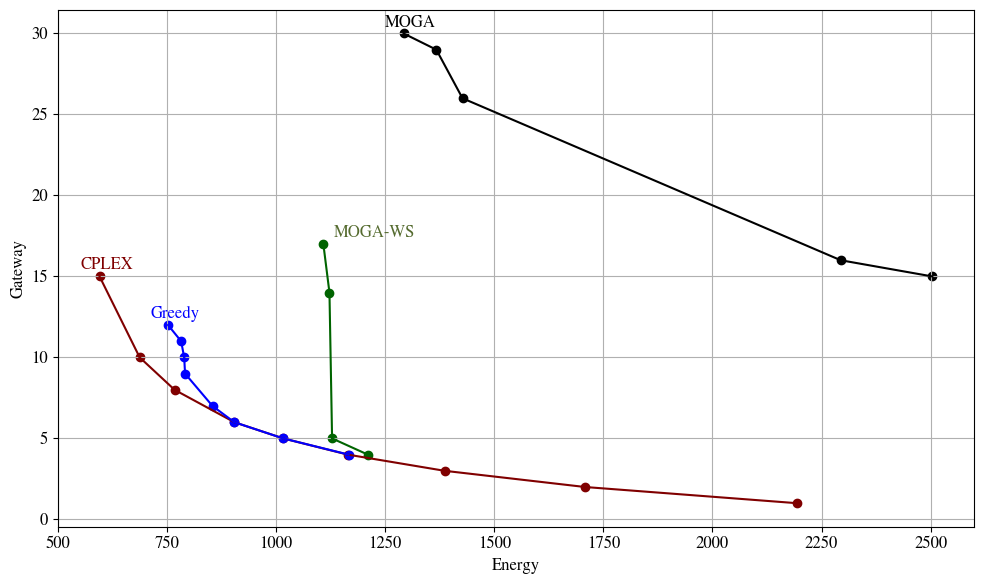
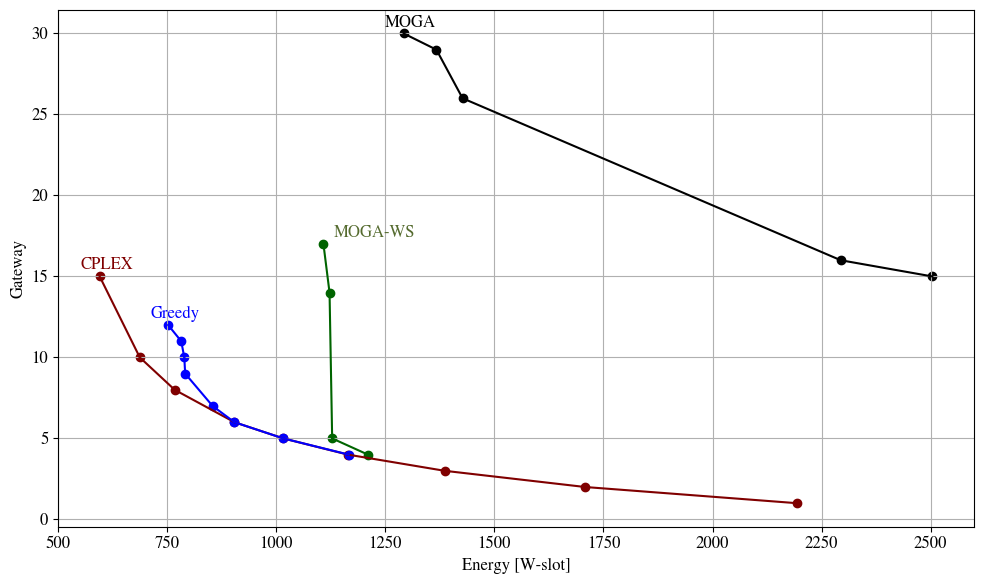
Crossover method selection

diff --git a/bin/src/ga.cpp b/bin/src/ga.cpp
@@ -26,6 +26,7 @@ int main(int argc, char **argv) {
     config->maxGenerations = 50;
     config->mutationRate = 0.05;
     config->crossoverRate = 0.8; 
+    config->crossoverMethod = CROSS_METHOD::SINGLE_POINT;
     config->elitismRate = 0.2;
     config->timeout = 360;
     config->stagnationWindow = 0.3;
@@ -34,54 +35,8 @@ int main(int argc, char **argv) {
 
     OUTPUTFORMAT outputFormat = OUTPUTFORMAT::TXT;
 
-    // Program arguments (h, f, t, i, a, b, g, m, c, e, w, o, p, q, x)
+
     for(int i = 0; i < argc; i++) {    
-        if(strcmp(argv[i], "-h") == 0 || strcmp(argv[i], "--help") == 0 || argc == 1)
-            printHelp(MANUAL);
-        if(strcmp(argv[i], "-f") == 0 || strcmp(argv[i], "--file") == 0) {
-            if(i+1 < argc)
-                l = new Instance(argv[i + 1]);
-            else{
-                printHelp(MANUAL);
-                std::cout << std::endl << "Error in argument -f (--file)" << std::endl;
-            }
-        }
-        if(strcmp(argv[i], "-p") == 0 || strcmp(argv[i], "--pop") == 0) {
-            // Read precomputed population
-            warmStart = true;
-        }
-        if(strcmp(argv[i], "-t") == 0 || strcmp(argv[i], "--timeout") == 0) {
-            if(i+1 < argc) 
-                config->timeout = atoi(argv[i+1]);
-            else{
-                printHelp(MANUAL);
-                std::cout << std::endl << "Error in argument -t (--timeout)" << std::endl;
-            }
-        }
-        if(strcmp(argv[i], "-i") == 0 || strcmp(argv[i], "--iters") == 0) {
-            if(i+1 < argc) 
-                config->maxGenerations = atoi(argv[i+1]);
-            else{
-                printHelp(MANUAL);
-                std::cout << std::endl << "Error in argument -i (--iters)" << std::endl;
-            }
-        }
-        if(strcmp(argv[i], "-s") == 0 || strcmp(argv[i], "--stag") == 0) {
-            if(i+1 < argc) 
-                config->stagnationWindow = atoi(argv[i+1]);
-            else{
-                printHelp(MANUAL);
-                std::cout << std::endl << "Error in argument -s (--stag)" << std::endl;
-            }
-        }
-        if(strcmp(argv[i], "-q") == 0 || strcmp(argv[i], "--qpop") == 0) {
-            if(i+1 < argc) 
-                config->populationSize = atoi(argv[i+1]);
-            else{
-                printHelp(MANUAL);
-                std::cout << std::endl << "Error in argument -q (--qpop)" << std::endl;
-            }
-        }
         if(strcmp(argv[i], "-a") == 0 || strcmp(argv[i], "--alpha") == 0){
             if(i+1 < argc)
                 tp.alpha = atof(argv[i+1]);
@@ -98,22 +53,6 @@ int main(int argc, char **argv) {
                 std::cout << std::endl << "Error in argument -b (--beta)" << std::endl;
             }
         }
-        if(strcmp(argv[i], "-g") == 0 || strcmp(argv[i], "--gamma") == 0){
-            if(i+1 < argc)
-                tp.gamma = atof(argv[i+1]);
-            else{
-                printHelp(MANUAL);
-                std::cout << std::endl << "Error in argument -g (--gamma)" << std::endl;
-            }
-        }
-        if(strcmp(argv[i], "-m") == 0 || strcmp(argv[i], "--mut") == 0){
-            if(i+1 < argc)
-                config->mutationRate = atof(argv[i+1]);
-            else{
-                printHelp(MANUAL);
-                std::cout << std::endl << "Error in argument -m (--mut)" << std::endl;
-            }
-        }
         if(strcmp(argv[i], "-c") == 0 || strcmp(argv[i], "--cross") == 0){
             if(i+1 < argc)
                 config->crossoverRate = atof(argv[i+1]);
@@ -127,17 +66,54 @@ int main(int argc, char **argv) {
                 config->elitismRate = atof(argv[i+1]);
             else{
                 printHelp(MANUAL);
-                std::cout << std::endl << "Error in argument -e (--elit)" << std::endl;
+                std::cout << std::endl << "Error in argument -e (--elite)" << std::endl;
             }
         }
-        //xml = strcmp(argv[i], "-w") == 0 || strcmp(argv[i], "--xml") == 0;
-        if(strcmp(argv[i], "-w") == 0 || strcmp(argv[i], "--xml") == 0){
-            if(i+1 < argc){
-                xmlFileName = argv[i+1];
-                xml = true;
-            }else{
+        if(strcmp(argv[i], "-f") == 0 || strcmp(argv[i], "--file") == 0) {
+            if(i+1 < argc)
+                l = new Instance(argv[i + 1]);
+            else{
                 printHelp(MANUAL);
-                std::cout << std::endl << "Error in argument -w (--xml)" << std::endl;
+                std::cout << std::endl << "Error in argument -f (--file)" << std::endl;
+            }
+        }
+        if(strcmp(argv[i], "-g") == 0 || strcmp(argv[i], "--gamma") == 0){
+            if(i+1 < argc)
+                tp.gamma = atof(argv[i+1]);
+            else{
+                printHelp(MANUAL);
+                std::cout << std::endl << "Error in argument -g (--gamma)" << std::endl;
+            }
+        }
+        if(strcmp(argv[i], "-h") == 0 || strcmp(argv[i], "--help") == 0 || argc == 1)
+            printHelp(MANUAL);
+        if(strcmp(argv[i], "-i") == 0 || strcmp(argv[i], "--iters") == 0) {
+            if(i+1 < argc) 
+                config->maxGenerations = atoi(argv[i+1]);
+            else{
+                printHelp(MANUAL);
+                std::cout << std::endl << "Error in argument -i (--iters)" << std::endl;
+            }
+        }
+        if(strcmp(argv[i], "-l") == 0 || strcmp(argv[i], "--crossmethod") == 0){
+            if(i+1 < argc)
+                if(std::strcmp(argv[i+1], "UNIFORM") == 0)
+                    config->crossoverMethod = CROSS_METHOD::UNIFORM;
+                if(std::strcmp(argv[i+1], "SINGLE_POINT") == 0)
+                    config->crossoverMethod = CROSS_METHOD::SINGLE_POINT;
+                if(std::strcmp(argv[i+1], "DOUBLE_POINT") == 0)
+                    config->crossoverMethod = CROSS_METHOD::DOUBLE_POINT;
+            else{
+                printHelp(MANUAL);
+                std::cout << std::endl << "Error in argument -l (--log)" << std::endl;
+            }
+        }
+        if(strcmp(argv[i], "-m") == 0 || strcmp(argv[i], "--mut") == 0){
+            if(i+1 < argc)
+                config->mutationRate = atof(argv[i+1]);
+            else{
+                printHelp(MANUAL);
+                std::cout << std::endl << "Error in argument -m (--mut)" << std::endl;
             }
         }
         if(strcmp(argv[i], "-o") == 0 || strcmp(argv[i], "--output") == 0){
@@ -147,6 +123,43 @@ int main(int argc, char **argv) {
             }else{
                 printHelp(MANUAL);
                 std::cout << std::endl << "Error in argument -o (--output)" << std::endl;
+            }
+        }
+        if(strcmp(argv[i], "-p") == 0 || strcmp(argv[i], "--pop") == 0) {
+            // Read precomputed population
+            warmStart = true;
+        }
+        if(strcmp(argv[i], "-q") == 0 || strcmp(argv[i], "--qpop") == 0) {
+            if(i+1 < argc) 
+                config->populationSize = atoi(argv[i+1]);
+            else{
+                printHelp(MANUAL);
+                std::cout << std::endl << "Error in argument -q (--qpop)" << std::endl;
+            }
+        }
+        if(strcmp(argv[i], "-s") == 0 || strcmp(argv[i], "--stag") == 0) {
+            if(i+1 < argc) 
+                config->stagnationWindow = atoi(argv[i+1]);
+            else{
+                printHelp(MANUAL);
+                std::cout << std::endl << "Error in argument -s (--stag)" << std::endl;
+            }
+        }
+        if(strcmp(argv[i], "-t") == 0 || strcmp(argv[i], "--timeout") == 0) {
+            if(i+1 < argc) 
+                config->timeout = atoi(argv[i+1]);
+            else{
+                printHelp(MANUAL);
+                std::cout << std::endl << "Error in argument -t (--timeout)" << std::endl;
+            }
+        }
+        if(strcmp(argv[i], "-w") == 0 || strcmp(argv[i], "--xml") == 0){
+            if(i+1 < argc){
+                xmlFileName = argv[i+1];
+                xml = true;
+            }else{
+                printHelp(MANUAL);
+                std::cout << std::endl << "Error in argument -w (--xml)" << std::endl;
             }
         }
         if(strcmp(argv[i], "-x") == 0 || strcmp(argv[i], "--xformat") == 0){

diff --git a/bin/src/lib/custom_ga/chromosome.h b/bin/src/lib/custom_ga/chromosome.h
@@ -4,6 +4,7 @@
 #include <iostream>
 #include <vector>
 #include <cstdlib>
+#include <functional>
 #include "gene.h"
 
 using namespace custom_ga;
@@ -16,15 +17,20 @@ class Chromosome { // Abstract class that models a chromosome (list of genes wit
 
         virtual std::string getName() const = 0;
 
-        virtual void mutate(); 
-        virtual void crossover(Chromosome* other);
-        virtual void clone(const Chromosome* other) = 0; // Copy genes and fitness value
-        
         inline std::vector<Gene*> getGenes() const { return genes; }
         inline void setGenes(std::vector<Gene*> genes) { this->genes = genes; }
 
         virtual void printGenotype() const;
         virtual void printPhenotype() const = 0;
+
+        virtual void mutate(); 
+        virtual void clone(const Chromosome* other) = 0; // Copy genes and fitness value
+        
+        virtual void crossover(Chromosome* other);
+        void setCrossoverMethod(std::function<void(Chromosome*, Chromosome*)> method);
+        virtual void singlePointCrossover(Chromosome* other);
+        virtual void doublePointCrossover(Chromosome* other);
+        virtual void uniformCrossover(Chromosome* other);
 
         double fitness; // Fitness value of the chromosome (value is updated by the fitness function)
 
@@ -40,6 +46,8 @@ class Chromosome { // Abstract class that models a chromosome (list of genes wit
         std::vector<Gene*> genes; 
         double mutProb;
         custom_ga::Uniform uniform; // NAMESPACE
+
+        std::function<void(Chromosome*, Chromosome*)> crossoverMethod;
 };
 
 #endif // CHROMOSOME_H

diff --git a/bin/src/lib/custom_ga/chromosome.cpp b/bin/src/lib/custom_ga/chromosome.cpp
@@ -16,11 +16,41 @@ void Chromosome::mutate() { // Mutate each gene with a probability of 1/genes.si
     }
 }
 
-void Chromosome::crossover(Chromosome* other) { // Single point crossover
+void Chromosome::crossover(Chromosome* other) { // Crossover method
+    crossoverMethod(this, other);
+}
+
+void Chromosome::setCrossoverMethod(std::function<void(Chromosome*, Chromosome*)> method) {
+    this->crossoverMethod = method;
+}
+
+void Chromosome::singlePointCrossover(Chromosome* other) { // Single point crossover
     unsigned int pivot = (unsigned int) floor(uniform.random(genes.size()));
     // From 0 to pivot, swap genes
     for (unsigned int i = 0; i < pivot; i++){
         std::swap(genes[i], other->genes[i]);
+    }
+}
+
+void Chromosome::doublePointCrossover(Chromosome* other) { // Double point crossover
+    unsigned int pivot1 = (unsigned int) floor(uniform.random(genes.size()));
+    unsigned int pivot2 = (unsigned int) floor(uniform.random(genes.size()));
+    if (pivot1 > pivot2)
+        std::swap(pivot1, pivot2);
+    // From 0 to pivot1, swap genes
+    for (unsigned int i = 0; i < pivot1; i++){
+        std::swap(genes[i], other->genes[i]);
+    }
+    // From pivot1 to pivot2, swap genes
+    for (unsigned int i = pivot1; i < pivot2; i++){
+        std::swap(genes[i], other->genes[i]);
+    }
+}
+
+void Chromosome::uniformCrossover(Chromosome* other) { // Uniform crossover
+    for (unsigned int i = 0; i < genes.size(); i++) {
+        if (uniform.random() < 0.5)
+            std::swap(genes[i], other->genes[i]);
     }
 }
 

diff --git a/bin/src/lib/custom_ga/ga_config.cpp b/bin/src/lib/custom_ga/ga_config.cpp
@@ -28,6 +28,14 @@ void GAConfig::setConfig(int argc, char **argv) {
             mutationRate = atof(argv[i + 1]);
         } else if (strcmp(argv[i], "-c") == 0) {
             crossoverRate = atof(argv[i + 1]);
+        } else if (strcmp(argv[i], "-x") == 0) {
+            if (strcmp(argv[i + 1], "UNIFORM") == 0) {
+                crossoverMethod = CROSS_METHOD::UNIFORM;
+            } else if (strcmp(argv[i + 1], "SINGLE_POINT") == 0) {
+                crossoverMethod = CROSS_METHOD::SINGLE_POINT;
+            } else if (strcmp(argv[i + 1], "DOUBLE_POINT") == 0) {
+                crossoverMethod = CROSS_METHOD::DOUBLE_POINT;
+            }
         } else if (strcmp(argv[i], "-e") == 0) {
             elitismRate = atof(argv[i + 1]);
         } else if (strcmp(argv[i], "-t") == 0) {

diff --git a/python/resultados.py b/python/resultados.py
@@ -90,7 +90,7 @@ def e_vs_g(axs, col):
 
 fig, axs = plt.subplots(1, 1, figsize=(10, 6))
 e_vs_g(axs,1)
-axs.set_xlabel("Energy")
+axs.set_xlabel("Energy [W-slot]")
 axs.set_ylabel("Gateway")
 plt.grid(True)
 plt.tight_layout()
@@ -158,7 +158,7 @@ plotdata(axs, U8, E8, 'darkgreen', 'G=8')
 plotdata(axs, U10, E10, 'brown', 'G=10')
 plotdata(axs, U15, E15, 'black', 'G=15')
 axs.set_xlabel("Utilization")
-axs.set_ylabel("Energy")
+axs.set_ylabel("Energy [W-slot]")
 plt.grid(True)
 plt.tight_layout()
 #plt.show()

diff --git a/bin/src/lib/custom_ga/ga_config.h b/bin/src/lib/custom_ga/ga_config.h
@@ -7,6 +7,11 @@
 #include "./output_stream.h"
 #include "fitness.h"
 
+enum CROSS_METHOD {
+    UNIFORM,
+    SINGLE_POINT,
+    DOUBLE_POINT
+};
 
 class GAConfig {
     
@@ -17,6 +22,7 @@ class GAConfig {
         unsigned int maxGenerations;
         double mutationRate;
         double crossoverRate;
+        CROSS_METHOD crossoverMethod;
         double elitismRate;
         unsigned int timeout;
         double stagnationWindow;

diff --git a/bin/src/lib/optimization/ga.h b/bin/src/lib/optimization/ga.h
@@ -58,6 +58,7 @@ class AllocationChromosome : public Chromosome { // Network allocation (GW and S
             for (unsigned int i = 0; i < edCount; i++) {
                 genes.push_back(new EdGene(o, i));
             }
+            this->setCrossoverMethod(&Chromosome::singlePointCrossover); // Default crossover method
         }
 
         std::string getName() const override {
